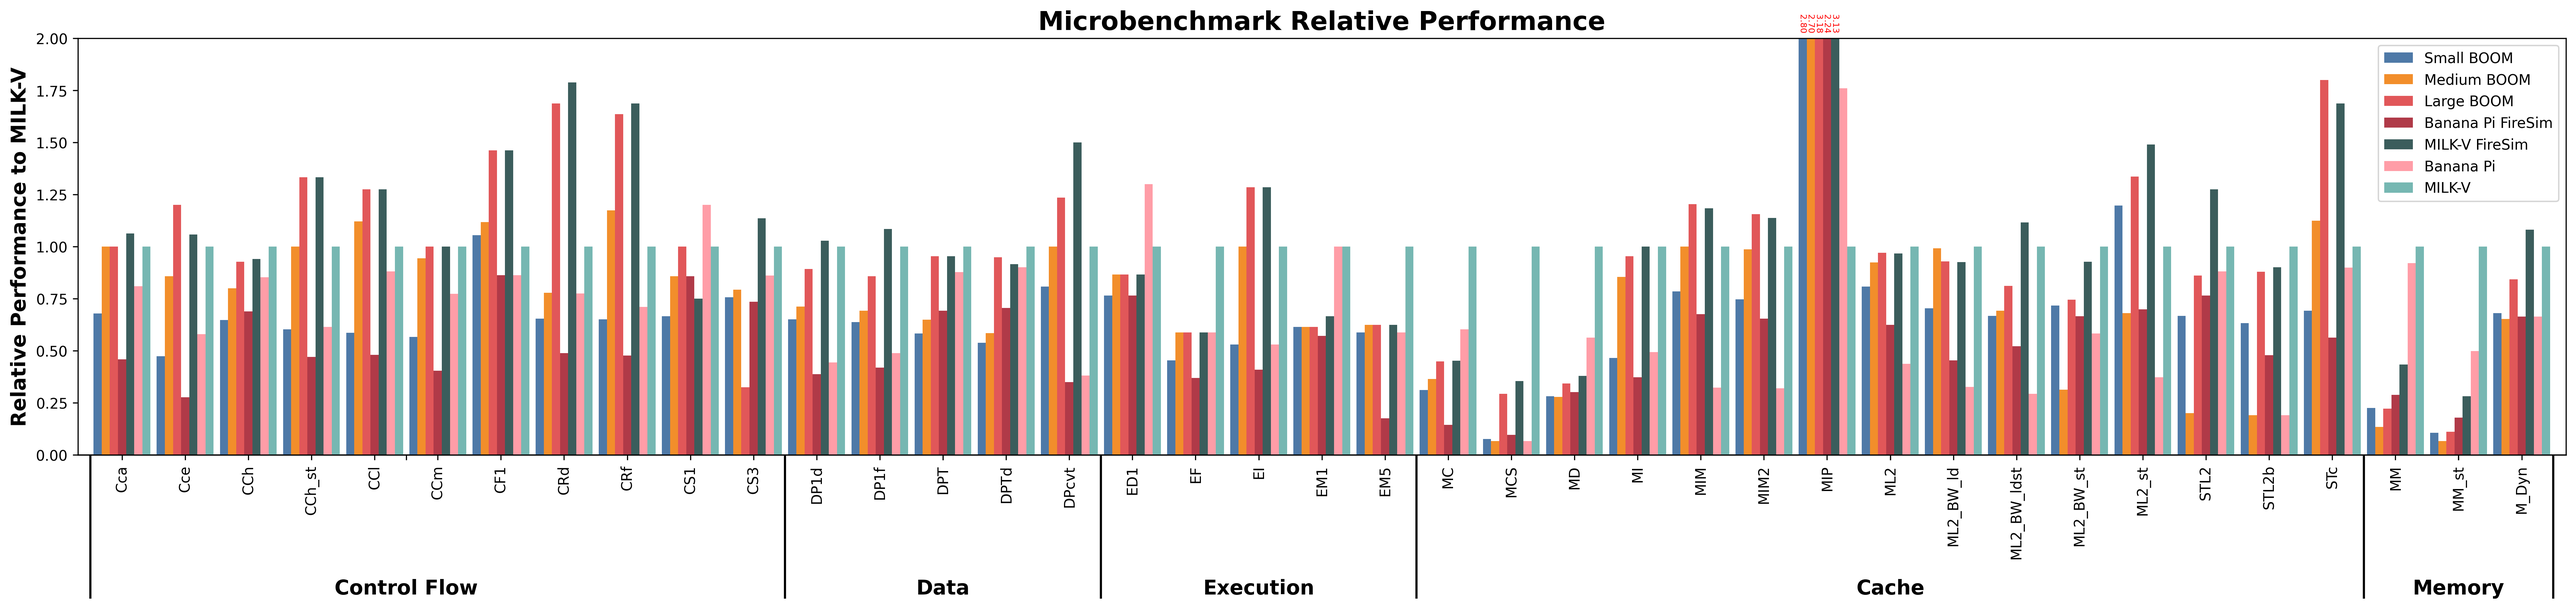
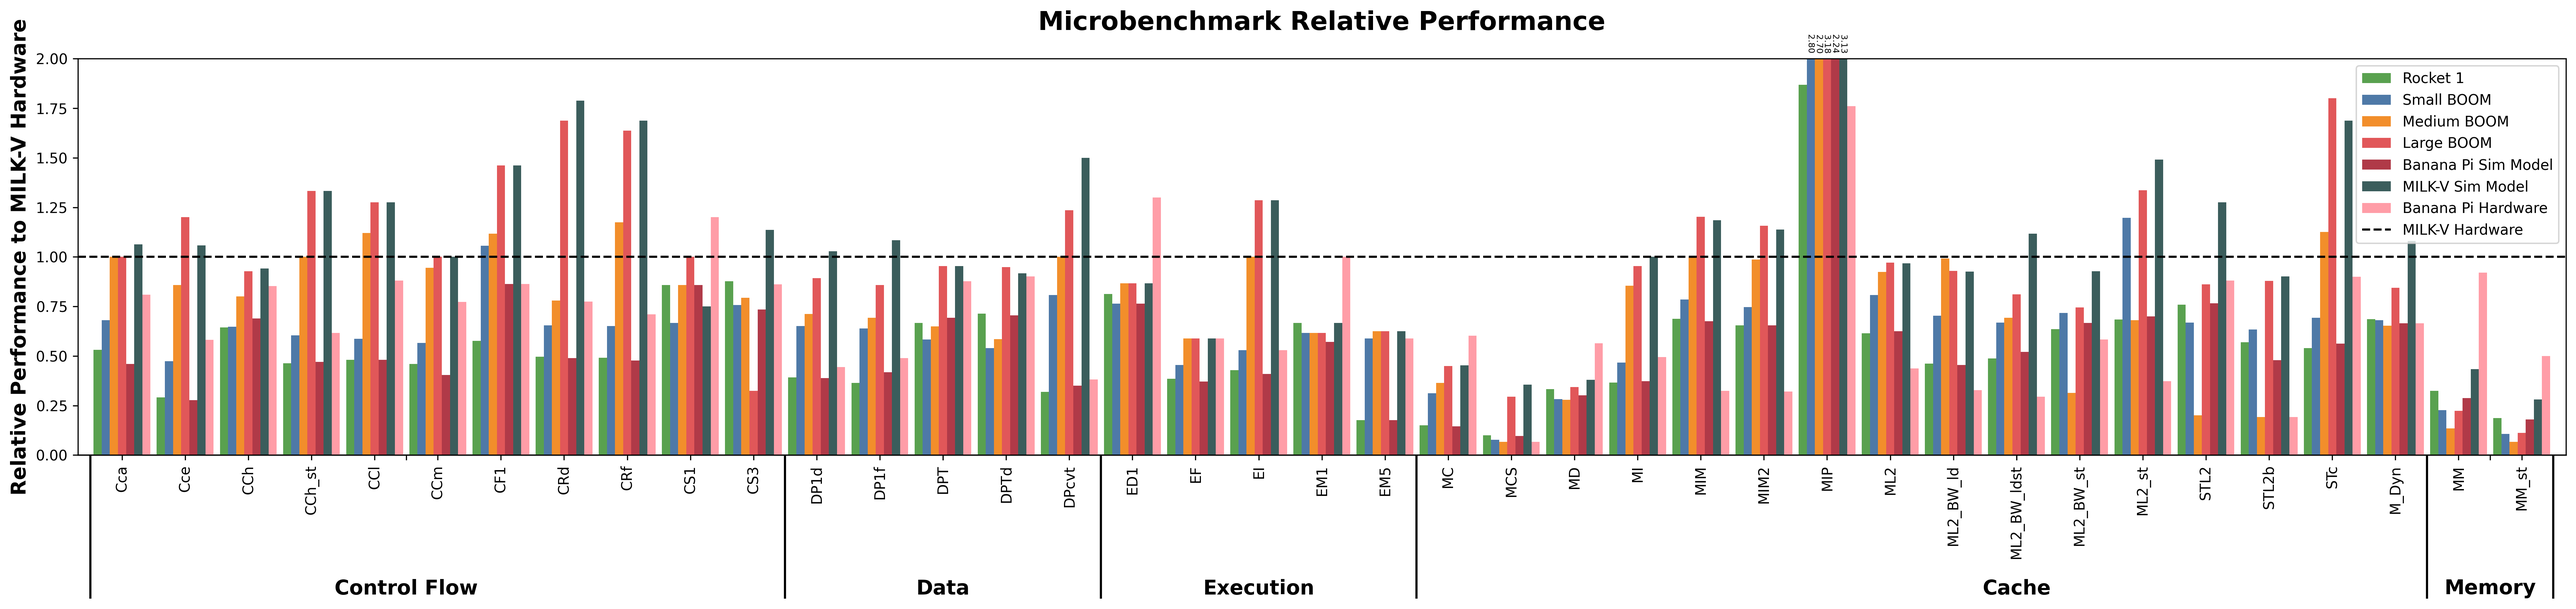
Microbench plot updates from meeting

Changed region(s): [[0.0, 0.0311, 0.9983, 0.8097], [0.9359, 0.9343, 0.9983, 0.9966], [0.7175, 0.9343, 0.7487, 0.9966]]

diff --git a/microbench/microbench.py b/microbench/microbench.py
@@ -9,9 +9,19 @@ def create_plot(df, color_dict, configs, normalized_key, plot_cols, y_label, fig
     for config in configs:
         df_normalized[config] = df_normalized[normalized_key] / df_normalized[config]
 
+    df_normalized.drop(normalized_key, axis=1, inplace=True)
+
     color_dict_filtered = {key: color_dict[key] for key in plot_cols}
 
     ax1 = df_normalized.plot.bar(x='Benchmark', y=plot_cols, figsize=(25, 6), color=color_dict_filtered, width=0.9)
+    ax1.axhline(y=1.0, color='k', linestyle='--', label=normalized_key)
+
+    ax1.legend()
+
+    handles, labels = plt.gca().get_legend_handles_labels()
+    reordered_handles = handles[1:] + [handles[0]]
+    reordered_labels = labels[1:] + [labels[0]]
+    plt.legend(reordered_handles, reordered_labels)
 
     ylim_cutoff = 2.0
 
@@ -22,17 +32,17 @@ def create_plot(df, color_dict, configs, normalized_key, plot_cols, y_label, fig
         for bar in container.patches:
             height = bar.get_height()
             if height > ylim_cutoff:
-                ax1.text(bar.get_x() + bar.get_width() / 2, # x position
-                        ylim_cutoff,                      # y position (at the cutoff)
-                        f'{height:.2f}  ',                   # text label (actual value)
-                        ha='center', va='bottom',          # alignment
-                        color='red', fontsize=6, rotation=270)
+                ax1.text(bar.get_x() + bar.get_width() / 2,
+                        ylim_cutoff,
+                        f'{height:.2f}  ',
+                        ha='center', va='bottom',
+                        color='black', fontsize=6, rotation=270)
 
     sec = ax1.secondary_xaxis(location=0)
-    sec.set_xticks([4.5, 13, 18, 28, 37], labels=df['Category'].unique())
+    sec.set_xticks([4.5, 13, 18, 30, 37.5], labels=df['Category'].unique())
 
     sec2 = ax1.secondary_xaxis(location=0)
-    sec2.set_xticks([-0.5, 10.5, 15.5, 20.5, 35.5, 38.5], labels=[])
+    sec2.set_xticks([-0.5, 10.5, 15.5, 20.5, 36.5, 38.5], labels=[])
     sec2.tick_params('x', length=100, width=1.5)
 
     for label in sec.get_xticklabels():
@@ -40,7 +50,7 @@ def create_plot(df, color_dict, configs, normalized_key, plot_cols, y_label, fig
         label.set_fontweight('bold')
 
     ax1.set_ylabel(y_label, fontsize=14, fontweight='bold')
-    ax1.set_title('Microbenchmark Relative Performance', fontsize=18, fontweight='bold')
+    ax1.set_title('Microbenchmark Relative Performance', fontsize=18, fontweight='bold', pad=20)
 
     plt.tight_layout()
 
@@ -67,13 +77,13 @@ def main():
     bench_labels = ['Small BOOM',  
                     'Medium BOOM', 
                     'Large BOOM',  
-                    'MILK-V',  
+                    'MILK-V Hardware',  
                     'Rocket 1',  
                     'Rocket 2', 
                     'Rocket 3',  
-                    'Banana Pi',
-                    'MILK-V FireSim',
-                    'Banana Pi FireSim']  
+                    'Banana Pi Hardware',
+                    'MILK-V Sim Model',
+                    'Banana Pi Sim Model']  
 
     color_dict = dict(zip(bench_labels, bench_colors))
 
@@ -82,16 +92,16 @@ def main():
 
     df['Category'] = '\n\n\n\n\n' + df['Category'].astype(str)
 
-    configs = ['Small BOOM', 'Medium BOOM', 'Large BOOM', 'Banana Pi FireSim', 'MILK-V FireSim', 'Banana Pi', 'MILK-V']
-    plot_cols =  ['Small BOOM', 'Medium BOOM', 'Large BOOM', 'Banana Pi FireSim', 'MILK-V FireSim', 'Banana Pi', 'MILK-V'] 
+    configs = ['Rocket 1', 'Small BOOM', 'Medium BOOM', 'Large BOOM', 'Banana Pi Sim Model', 'MILK-V Sim Model', 'Banana Pi Hardware', 'MILK-V Hardware']
 
-    create_plot(df, color_dict, configs, 'MILK-V', plot_cols, 'Relative Performance to MILK-V', 'Micro-All.png')
+    plot_cols =  ['Rocket 1', 'Small BOOM', 'Medium BOOM', 'Large BOOM', 'Banana Pi Sim Model', 'MILK-V Sim Model', 'Banana Pi Hardware'] 
+    create_plot(df, color_dict, configs, 'MILK-V Hardware', plot_cols, 'Relative Performance to MILK-V Hardware', 'Micro-All.png')
 
-    plot_cols = ['Small BOOM', 'Medium BOOM', 'Large BOOM', 'Banana Pi FireSim', 'Banana Pi']
-    create_plot(df, color_dict, configs, 'Banana Pi', plot_cols, 'Relative Performance to Banana Pi', 'Micro-BPi.png')
+    plot_cols = ['Rocket 1', 'Small BOOM', 'Medium BOOM', 'Large BOOM', 'Banana Pi Sim Model']
+    create_plot(df, color_dict, configs, 'Banana Pi Hardware', plot_cols, 'Relative Performance to Banana Pi Hardware', 'Micro-BPi.png')
 
-    plot_cols = ['Small BOOM', 'Medium BOOM', 'Large BOOM', 'MILK-V FireSim', 'MILK-V']
-    create_plot(df, color_dict, configs, 'MILK-V', plot_cols, 'Relative Performance to MILK-V', 'Micro-MILK-V.png')
+    plot_cols = ['Rocket 1', 'Small BOOM', 'Medium BOOM', 'Large BOOM', 'MILK-V Sim Model']
+    create_plot(df, color_dict, configs, 'MILK-V Hardware', plot_cols, 'Relative Performance to MILK-V Hardware', 'Micro-MILK-V.png')
 
 main()
 
